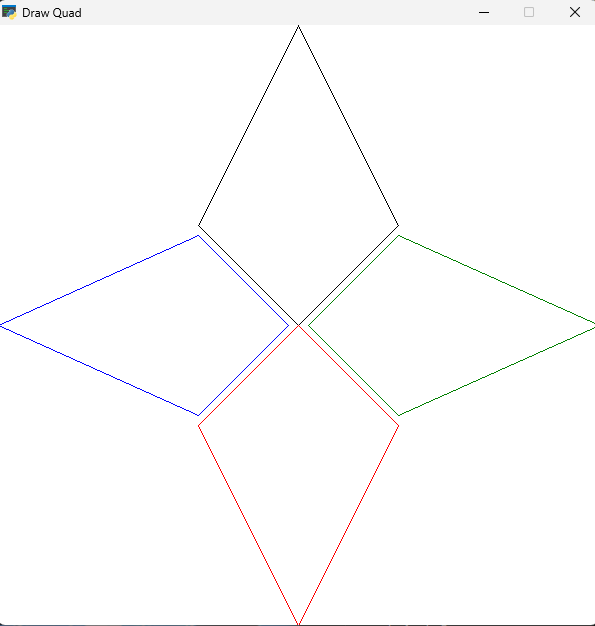
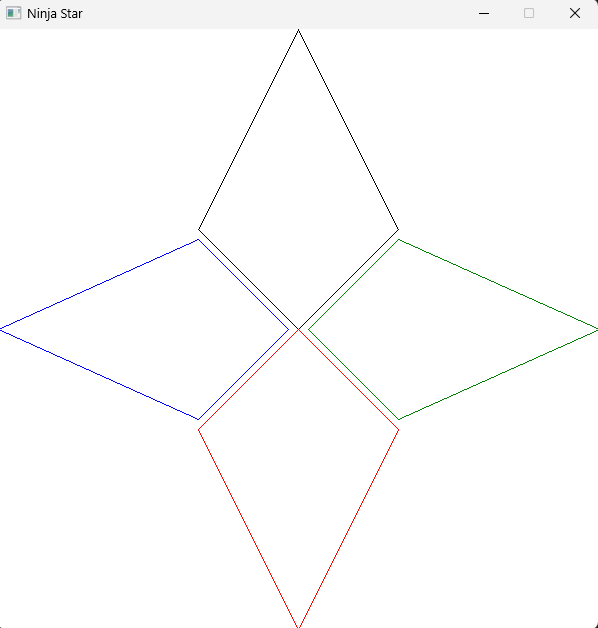
Updated OOP, reformatted code, updated description

diff --git a/public/usage-examples/graphics/draw_quad/draw_quad-1-simple-oop.cs b/public/usage-examples/graphics/draw_quad/draw_quad-1-simple-oop.cs
@@ -7,22 +7,19 @@ namespace DrawQuad
         public static void Main()
         {
             // Initialise quads with x1,y1,...,x4,y4
-            Quad q1 = SplashKit.QuadFrom(400,200,300,300,300,0,200,200);
-            Quad q2 = SplashKit.QuadFrom(400,210,310, 300,600,300,400,390);
-            Quad q3 = SplashKit.QuadFrom(200,400,300, 300,300,600,400,400);
-            Quad q4 = SplashKit.QuadFrom(200,390,290, 300,0,300,200,210);
+            Quad Q1 = SplashKit.QuadFrom(400, 200, 300, 300, 300, 0, 200, 200);
+            Quad Q2 = SplashKit.QuadFrom(400, 210, 310, 300, 600, 300, 400, 390);
+            Quad Q3 = SplashKit.QuadFrom(200, 400, 300, 300, 300, 600, 400, 400);
+            Quad Q4 = SplashKit.QuadFrom(200, 390, 290, 300, 0, 300, 200, 210);
 
             // Create Window
+            SplashKit.OpenWindow("Ninja Star", 600, 600);
+            SplashKit.ClearScreen(Color.White);
 
-            SplashKit.OpenWindow("Draw Quad", 600, 600);
-            SplashKit.ClearScreen(SplashKit.ColorWhite());
-
-
-            SplashKit.DrawQuad(SplashKit.ColorBlack(), q1);
-            SplashKit.DrawQuad(SplashKit.ColorGreen(), q2);
-            SplashKit.DrawQuad(SplashKit.ColorRed(), q3);
-            SplashKit.DrawQuad(SplashKit.ColorBlue(), q4);
-            
+            SplashKit.DrawQuad(Color.Black, Q1);
+            SplashKit.DrawQuad(Color.Green, Q2);
+            SplashKit.DrawQuad(Color.Red, Q3);
+            SplashKit.DrawQuad(Color.Blue, Q4);
 
             SplashKit.RefreshScreen();
             SplashKit.Delay(5000);

diff --git a/public/usage-examples/graphics/draw_quad/draw_quad-1-simple-top-level.cs b/public/usage-examples/graphics/draw_quad/draw_quad-1-simple-top-level.cs
@@ -1,24 +1,20 @@
 using SplashKitSDK;
 using static SplashKitSDK.SplashKit;
 
-
-//Initialise quads with x1,y1,...,x4,y4
-Quad q1 = QuadFrom(400,200,300,300,300,0,200,200);   
-Quad q2 = QuadFrom(400,210,310, 300,600,300,400,390);
-Quad q3 = QuadFrom(200,400,300, 300,300,600,400,400);
-Quad q4 = QuadFrom(200,390,290, 300,0,300,200,210);   
-
+// Initialise quads with x1,y1,...,x4,y4
+Quad Q1 = QuadFrom(400, 200, 300, 300, 300, 0, 200, 200);   
+Quad Q2 = QuadFrom(400, 210, 310, 300, 600, 300, 400, 390);
+Quad Q3 = QuadFrom(200, 400, 300, 300, 300, 600, 400, 400);
+Quad Q4 = QuadFrom(200, 390, 290, 300, 0, 300, 200, 210);   
 
 // Create Window
-
-OpenWindow("Draw Quad", 600, 600);
+OpenWindow("Ninja Star", 600, 600);
 ClearScreen(ColorWhite());
 
-
-DrawQuad(ColorBlack(), q1);
-DrawQuad(ColorGreen(), q2);
-DrawQuad(ColorRed(), q3);
-DrawQuad(ColorBlue(), q4);
+DrawQuad(ColorBlack(), Q1);
+DrawQuad(ColorGreen(), Q2);
+DrawQuad(ColorRed(), Q3);
+DrawQuad(ColorBlue(), Q4);
 
 RefreshScreen();
 Delay(5000);

diff --git a/public/usage-examples/graphics/draw_quad/draw_quad-1-simple.cpp b/public/usage-examples/graphics/draw_quad/draw_quad-1-simple.cpp
@@ -3,24 +3,22 @@
 int main()
 {
     // Initialise quads with x1,y1,...,x4,y4
-    quad q1 = quad_from(400,200,300,300,300,0,200,200);
-    quad q2 = quad_from(400,210,310, 300,600,300,400,390);
-    quad q3 = quad_from(200,400,300, 300,300,600,400,400);
-    quad q4 = quad_from(200,390,290, 300,0,300,200,210);
+    quad q1 = quad_from(400, 200, 300, 300, 300, 0, 200, 200);
+    quad q2 = quad_from(400, 210, 310, 300, 600, 300, 400, 390);
+    quad q3 = quad_from(200, 400, 300, 300, 300, 600, 400, 400);
+    quad q4 = quad_from(200, 390, 290, 300, 0, 300, 200, 210);
     
     // Create Window
-    open_window("Draw Quad", 600, 600);
+    open_window("Ninja Star", 600, 600);
     clear_screen(COLOR_WHITE);
 
-    
     draw_quad(COLOR_BLACK, q1);
     draw_quad(COLOR_GREEN, q2);
     draw_quad(COLOR_RED, q3);
     draw_quad(COLOR_BLUE, q4);
+
     refresh_screen();
     delay(5000);
     close_all_windows();
     return 0;
 }
-    
-    

diff --git a/public/usage-examples/graphics/draw_quad/draw_quad-1-simple.py b/public/usage-examples/graphics/draw_quad/draw_quad-1-simple.py
@@ -1,23 +1,26 @@
 from splashkit import *
 
-# Initialise quads with x1,y1,...,x4,y4
-q1 = quad_from(400,200,300,300,300,0,200,200)
-q2 = quad_from(400,210,310, 300,600,300,400,390)
-q3 = quad_from(200,400,300, 300,300,600,400,400)
-q4 = quad_from(200,390,290, 300,0,300,200,210)
-
+# Initialise quads with x1, y1, ..., x4, y4
+q1 = quad_from(400, 200, 300, 300, 300, 0, 200, 200)
+q2 = quad_from(400, 210, 310, 300, 600, 300, 400, 390)
+q3 = quad_from(200, 400, 300, 300, 300, 600, 400, 400)
+q4 = quad_from(200, 390, 290, 300, 0, 300, 200, 210)
 
 # Create Window
-
-open_window("Draw Quad", 600, 600)
+open_window("Ninja Star", 600, 600)
 clear_screen(color_white())
 
-
+# Draw the quads
 draw_quad(color_black(), q1)
 draw_quad(color_green(), q2)
 draw_quad(color_red(), q3)
 draw_quad(color_blue(), q4)
 
+# Refresh the screen
 refresh_screen()
+
+# Wait for 5 seconds before closing
 delay(5000)
+
+# Close the window
 close_all_windows()
